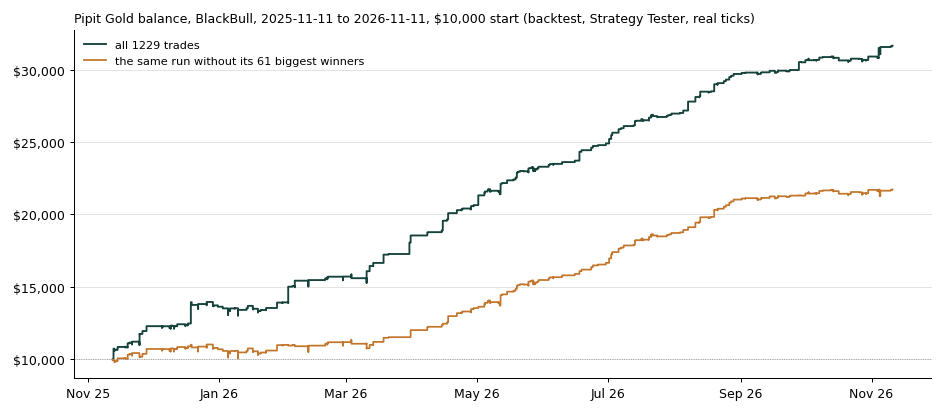
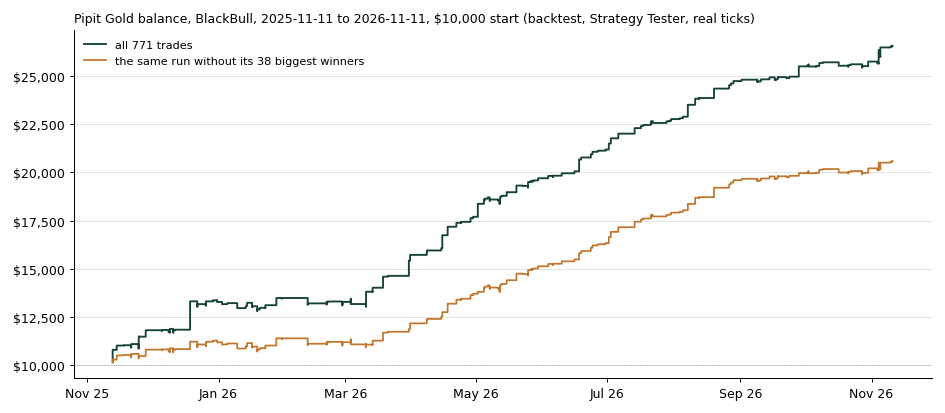
Site build from EA_Focus (scripts/gtm.py site build)

diff --git a/products/pipit-gold/research.html b/products/pipit-gold/research.html
@@ -19,7 +19,7 @@
 </ul>
 </div>
 </nav><h1 id="pipit-gold-research-note-every-number-names-its-arm-feed-and-window">Pipit Gold - research note (every number names its ARM, FEED and WINDOW)</h1>
-<p>All figures: Backtest, MetaTrader 5 Strategy Tester, real ticks, $10,000 deposit, lot 0.01 per $1,000 of balance, capped at 0.10, 150 ms delay, leverage 1:500, defaults (no .set), version 1.01. Window 2025-11-11..2026-11-11.</p>
+<p>All figures: Backtest, MetaTrader 5 Strategy Tester, real ticks, $10,000 deposit, lot 0.01 per $1,000 of balance, capped at 0.10, 150 ms delay, leverage 1:500, defaults (no .set), version 1.02. Window 2025-11-11..2026-11-11.</p>
 <h2 id="what-it-is">What it is</h2>
 <p>Pipit Gold is a tick-driven stop-order scalper. It remembers recent daily highs and lows that were also wide swings on the hourly chart, and when gold comes within a few dollars of one it places pending stop orders a fixed fraction of a percent inside that level. Eight order settings (three for sells, five for buys) each carry their own fixed-dollar stop and target; every filled trade then locks in profit as it runs and is usually closed within seconds.</p>
 <h2 id="result-by-feed">Result by feed</h2>
@@ -38,33 +38,33 @@
 <tbody>
 <tr>
 <td>BlackBull (claim)</td>
-<td>21,644</td>
-<td>3.10</td>
-<td>7.90 %</td>
-<td>1229</td>
+<td>16,571</td>
+<td>3.68</td>
+<td>5.45 %</td>
+<td>771</td>
 <td>100 %</td>
-<td>11,720</td>
+<td>10,591</td>
 </tr>
 <tr>
 <td>VT Markets</td>
-<td>24,100</td>
-<td>3.79</td>
-<td>5.78 %</td>
-<td>1191</td>
+<td>19,218</td>
+<td>4.68</td>
+<td>3.94 %</td>
+<td>772</td>
 <td>100 %</td>
-<td>14,784</td>
+<td>12,900</td>
 </tr>
 </tbody>
 </table>
-<p>Small-account row. Backtest, MetaTrader 5 Strategy Tester, real ticks, BlackBull, 2025-11-11 to 2026-11-11, version 1.01, $1,000 deposit (the lot ladder shrinks with the balance): net 4,309, PF 3.19, equity drawdown 4.83 %, 1229 trades.</p>
+<p>Small-account row. Backtest, MetaTrader 5 Strategy Tester, real ticks, BlackBull, 2025-11-11 to 2026-11-11, version 1.02, $1,000 deposit (the lot ladder shrinks with the balance): net 2,416, PF 3.68, equity drawdown 4.92 %, 771 trades.</p>
 <h2 id="what-the-curve-looks-like">What the curve looks like</h2>
 <ul>
-<li><strong>Concentration.</strong> Without its 61 biggest winners (the top 5 % of 1229 trades) the BlackBull run makes $11,720 of its $21,644. The page shows both curves in dollars, not on a log scale.</li>
+<li><strong>Concentration.</strong> Without its 38 biggest winners (the top 5 % of 771 trades) the BlackBull run makes $10,591 of its $16,571. The page shows both curves in dollars, not on a log scale.</li>
 <li><strong>One kind of market.</strong> The window is the fast gold market since November 2025. Over 2022 to early 2025 the same rules lost money in several quarters (for example the third quarter of 2023), so do not expect it to profit in every market.</li>
 </ul>
 <h2 id="reading-it-honestly">Reading it honestly</h2>
 <ul>
-<li>This build follows its decode; the level rule was chosen on a four-year window, tested on a held-out six-month window, and the global width was preferred to per-setting widths before the final run.</li>
+<li>This build follows its decode; the level rule was chosen on a four-year window, tested on a held-out six-month window, and the global width was preferred to per-setting widths before the final run. Two adjustments were made after the decode (a minimum level age of 14 hourly bars and at most two re-uses of a level), each chosen before its results were read and confirmed on a second broker and the four-year window; the alternatives tested were set aside.</li>
 <li>The tester cannot show slippage in fast markets.</li>
 <li>There is no live record yet. Nothing here is a live result.</li>
 </ul>

diff --git a/risk.html b/risk.html
@@ -7,7 +7,7 @@
 <link rel="stylesheet" href="assets/style.css?v=ec9daf5ed3"></head>
 <body><header><a class="name" href="index.html">Joshua Dunnink · Trading Systems</a><nav><a href="index.html">Home</a> <a href="products.html">Products</a> <a href="signal.html">Live signal</a> <a href="market.html">Gold market</a> <a href="research/index.html">Research</a> <a href="about.html">About</a> <a href="risk.html" aria-current=page>Risk &amp; privacy</a></nav></header>
 <main>
-<h1>Risk and privacy</h1><h2>Risk</h2><p>Trading leveraged products carries a high risk of loss. Every performance figure on this site is a backtest unless it is marked as the live signal. Past results, backtested or live, do not predict future results. Nothing here is financial advice.</p><p>Backtests are run in the MetaTrader 5 Strategy Tester on real broker ticks. They include spread, commission and swap as the broker recorded them, but they cannot include every live effect: slippage, requotes, latency and a different broker's prices all change results. Test every Expert Advisor on a demo account with your own broker before trading real money, and only trade money you can afford to lose.</p><h2>Privacy</h2><p>This site sets no cookies, runs no analytics and loads nothing from third parties. It is hosted on GitHub Pages; GitHub logs visitors' IP addresses for security purposes, as its documentation states. Purchases, licences and payments are handled by mql5.com under its own terms.</p><p>Last built 2026-11-13.</p>
+<h1>Risk and privacy</h1><h2>Risk</h2><p>Trading leveraged products carries a high risk of loss. Every performance figure on this site is a backtest unless it is marked as the live signal. Past results, backtested or live, do not predict future results. Nothing here is financial advice.</p><p>Backtests are run in the MetaTrader 5 Strategy Tester on real broker ticks. They include spread, commission and swap as the broker recorded them, but they cannot include every live effect: slippage, requotes, latency and a different broker's prices all change results. Test every Expert Advisor on a demo account with your own broker before trading real money, and only trade money you can afford to lose.</p><h2>Privacy</h2><p>This site sets no cookies, runs no analytics and loads nothing from third parties. It is hosted on GitHub Pages; GitHub logs visitors' IP addresses for security purposes, as its documentation states. Purchases, licences and payments are handled by mql5.com under its own terms.</p><p>Last built 2026-11-14.</p>
 </main>
 <footer><p>Trading leveraged products carries a high risk of loss. Every performance figure on this site is a backtest unless it is marked as the live signal. Past results, backtested or live, do not predict future results. Nothing here is financial advice.</p><p>Built and tested by Joshua Dunnink. Products are sold only through the
 <a href="https://www.mql5.com/en/users/joshuadunnink">mql5.com Market</a>.</p></footer>

diff --git a/products/pipit-gold/manual.html b/products/pipit-gold/manual.html
@@ -35,8 +35,8 @@
 </ul>
 <h2 id="3-what-it-does-in-order">3. What it does, in order</h2>
 <ol>
-<li><strong>Levels.</strong> Daily highs and lows from the last 14 days that price has not traded through, and that stand out as wide swings on the hourly chart (20 hourly bars with nothing higher or lower before it, between 6 and 130 hourly bars old).</li>
-<li><strong>Approach.</strong> When price comes within about $6.75 of a level, pending stop orders are placed a fixed fraction of a percent inside it.</li>
+<li><strong>Levels.</strong> Daily highs and lows from the last 14 days that price has not traded through, and that stand out as wide swings on the hourly chart (20 hourly bars with nothing higher or lower before it, between 14 and 130 hourly bars old).</li>
+<li><strong>Approach.</strong> When price comes within about $6.75 of a level, pending stop orders are placed a fixed fraction of a percent inside it. After a trade closes, the same level and setting can be used again, up to two more times.</li>
 <li><strong>Eight order settings.</strong> Three for sells and five for buys, each with its own stop ($1.80 to $2.30) and target ($13 to $21).</li>
 <li><strong>Trailing stop.</strong> After a fill the stop moves to just above entry and then follows price at about 0.71 of the profit beyond the first dollar.</li>
 <li><strong>Sizing.</strong> The lot is 0.01 per $1,000 of balance, capped at 0.10 lots.</li>
